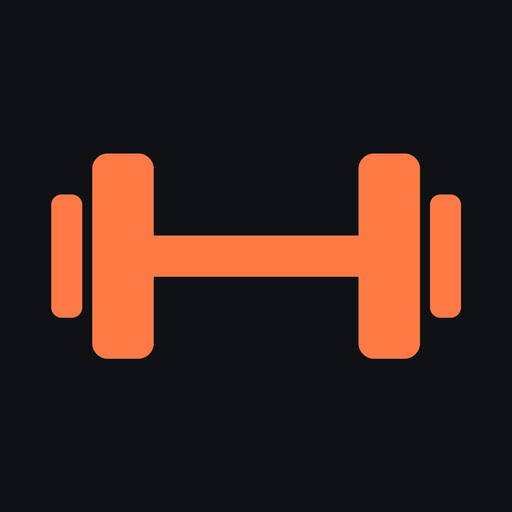
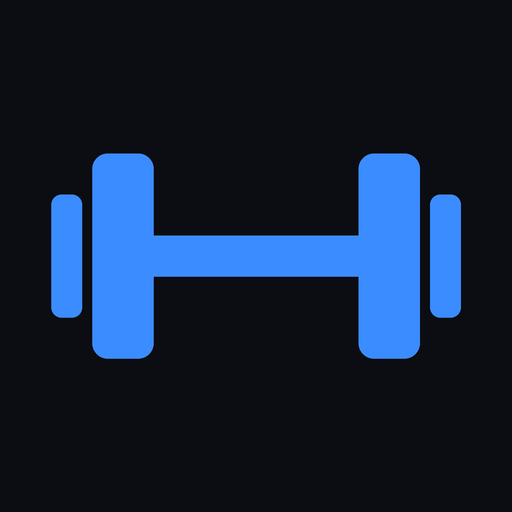
Синяя цветовая тема и синяя иконка
Claude-Session: https://claude.ai/code/session_01T6w6h7aoBaUWohVfjx6cfE

Changed region(s): [[0.0938, 0.2812, 0.9062, 0.7188]]

diff --git a/index.html b/index.html
@@ -8,18 +8,16 @@
 <meta name="mobile-web-app-capable" content="yes">
 <meta name="apple-mobile-web-app-status-bar-style" content="black-translucent">
 <meta name="apple-mobile-web-app-title" content="Зал">
-<meta name="theme-color" content="#0f1115">
+<meta name="theme-color" content="#0b0d12" media="(prefers-color-scheme: dark)">
+<meta name="theme-color" content="#f2f4f8" media="(prefers-color-scheme: light)">
 <link rel="manifest" href="manifest.webmanifest">
 <link rel="apple-touch-icon" href="icon-180.png">
 <style>
 :root {
-  --bg: #0f1115; --card: #1a1d24; --card2: #232731; --text: #f1f3f7; --muted: #8b93a3;
-  --accent: #ff7a45; --accent-text: #1a0d06; --danger: #ff5c5c; --line: #2c313c; --good: #4cd18a;
-  --finish: #4cd18a; --finish-text: #06281c; --swap: #fbbf24; --info: #38bdf8;
+  --bg: #0b0d12; --card: #161a22; --card2: #202634; --text: #f2f4f8; --muted: #8a93a6; --accent: #3b8cff; --accent-text: #ffffff; --line: #2a3040; --good: #34d399; --danger: #ff5c5c; --finish: #34d399; --finish-text: #06281c; --swap: #fbbf24; --info: #2dd4bf;
 }
 @media (prefers-color-scheme: light) {
-  :root { --bg: #f3f4f7; --card: #ffffff; --card2: #eef0f4; --text: #14161b; --muted: #677083;
-    --line: #e1e4ea; --accent-text: #ffffff; --finish: #12a36b; --finish-text: #ffffff; --swap: #b45309; --info: #0369a1; }
+  :root { --bg: #f2f4f8; --card: #ffffff; --card2: #e9edf4; --text: #12151c; --muted: #667085; --accent: #1f6feb; --accent-text: #ffffff; --line: #dfe3ea; --good: #12a36b; --danger: #e5484d; --finish: #12a36b; --finish-text: #ffffff; --swap: #b45309; --info: #0f766e; }
 }
 * { box-sizing: border-box; -webkit-tap-highlight-color: transparent; }
 html, body { margin: 0; background: var(--bg); color: var(--text); }

diff --git a/sw.js b/sw.js
@@ -1,4 +1,4 @@
-const CACHE = 'gym-v6';
+const CACHE = 'gym-v7';
 const IMG_CACHE = 'gym-img-v1';
 const FILES = ['./', './index.html', './manifest.webmanifest', './icon-180.png', './icon-192.png', './icon-512.png'];
 // Exercise pictures, kept in their own cache so app updates don't download them again.
